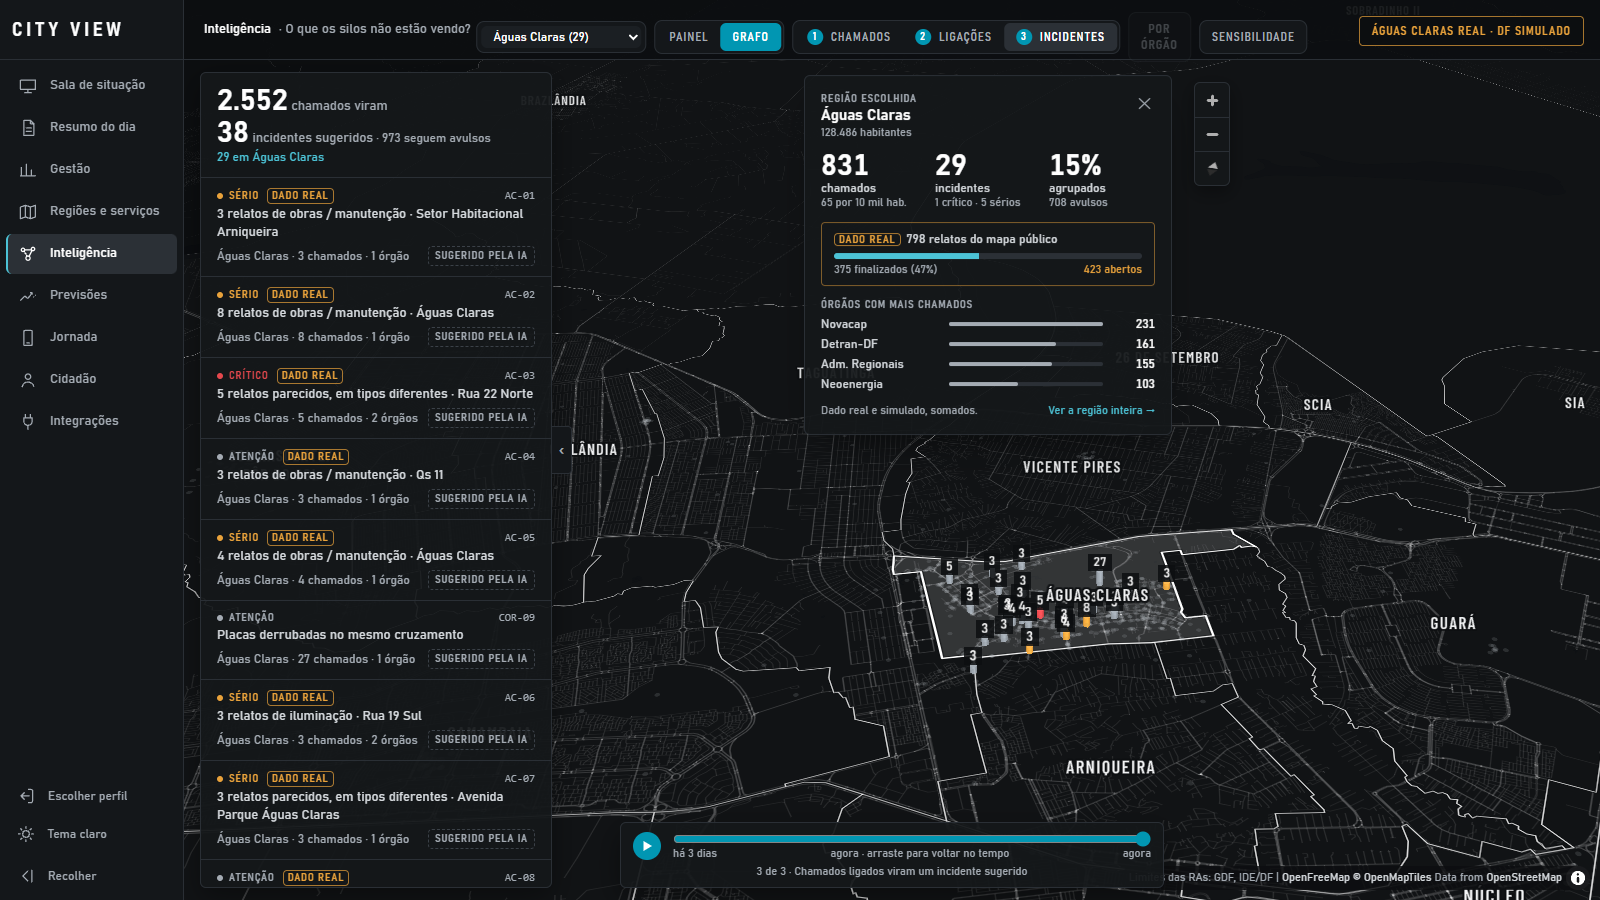
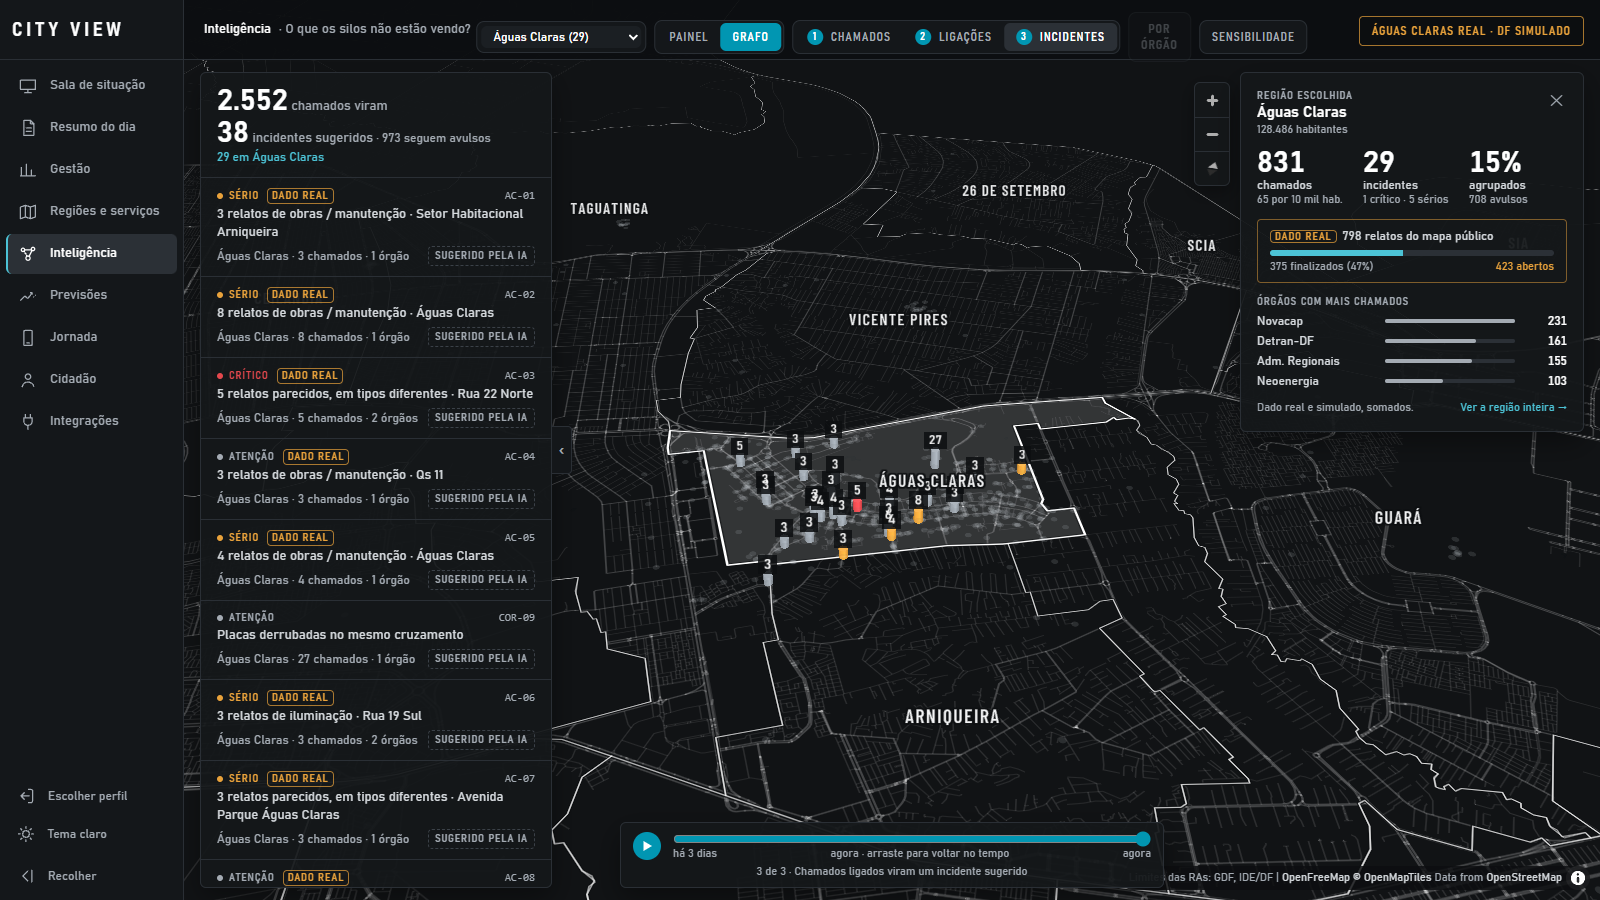
Demo: o cartão da região vai para a lateral
Saiu do meio da tela. Fica à direita, no lugar onde abre o insight (os dois
nunca aparecem juntos), e a região é enquadrada no espaço que sobra, maior.

diff --git a/demo-view/src/telas/inteligencia/TelaInteligencia.tsx b/demo-view/src/telas/inteligencia/TelaInteligencia.tsx
@@ -178,11 +178,11 @@ export function TelaInteligencia() {
   const animadas = useCallback((t: number) => camadasVivas(estado, ondas, t), [estado, ondas]);
 
   const paineis = useRef({ fila: filaAberta, insight: aberto >= 0, cartao: false });
-  // Com a região escolhida e nenhum insight aberto, o cartão dela paira no alto: a região é enquadrada abaixo dele.
+  // Com a região escolhida e nenhum insight aberto, o cartão dela fica na lateral direita: a região é enquadrada no espaço que sobra.
   paineis.current = { fila: filaAberta, insight: aberto >= 0, cartao: Boolean(ra) && aberto < 0 };
   const margens = useCallback((largura: number) => {
     if (largura < 1024) return { top: 120, bottom: 24, left: 16, right: 16 };
-    return { top: paineis.current.cartao ? 370 : 84, bottom: paineis.current.cartao ? 100 : 48, left: paineis.current.fila ? 372 : 32, right: paineis.current.insight ? 452 : 32 };
+    return { top: 84, bottom: 48, left: paineis.current.fila ? 372 : 32, right: paineis.current.insight ? 452 : paineis.current.cartao ? 384 : 32 };
   }, []);
 
   const [alvo, setAlvo] = useState<{ destino: Destino; chave: number; lento?: boolean }>();
@@ -370,15 +370,15 @@ export function TelaInteligencia() {
         )}
       </AnimatePresence>
 
-      {/* A região escolhida: destacada no mapa, com o cartão pairando sobre ela. Sai quando um insight abre. */}
+      {/* A região escolhida: destacada no mapa, com o cartão na lateral direita, no lugar do insight. Sai quando um insight abre. */}
       <AnimatePresence>
         {vista === 'grafo' && daRa && !inc && (
           <motion.div
             key={daRa.ra}
-            className={`pointer-events-none absolute top-[4.75rem] z-10 hidden -translate-x-1/2 lg:block ${filaAberta ? 'left-[calc(50%+6rem)]' : 'left-[calc(50%-4.5rem)]'}`}
-            initial={reduzMovimento() ? false : { opacity: 0, y: -10 }}
-            animate={{ opacity: 1, y: 0 }}
-            exit={reduzMovimento() ? undefined : { opacity: 0, y: -6, transition: { duration: 0.15 } }}
+            className="pointer-events-none absolute top-[4.5rem] right-4 z-10 hidden lg:block"
+            initial={reduzMovimento() ? false : { opacity: 0, x: 32 }}
+            animate={{ opacity: 1, x: 0 }}
+            exit={reduzMovimento() ? undefined : { opacity: 0, x: 32, transition: { duration: 0.15 } }}
             transition={{ duration: 0.3, delay: 0.25 }}
           >
             <CartaoDaRegiao r={daRa} aoFechar={() => mudarRa(null)} />

diff --git a/demo-view/src/telas/inteligencia/partes.tsx b/demo-view/src/telas/inteligencia/partes.tsx
@@ -407,16 +407,15 @@ export function Insight({ inc, decisao, agora, aoConfirmar, aoCancelar, aoDescar
 // ---------------------------------------------------------------- a região escolhida
 
 /**
- * O cartão que paira sobre a região escolhida no seletor: os chamados que caem
- * nela e o que a inteligência fez deles. O flutuar é leve e para com "reduzir
- * movimento".
+ * O cartão da região escolhida no seletor, na lateral direita: os chamados que
+ * caem nela e o que a inteligência fez deles.
  */
 export function CartaoDaRegiao({ r, aoFechar }: { r: ResumoDaRegiao; aoFechar: () => void }) {
   const maior = Math.max(1, ...r.porOrgao.map((o) => o.chamados));
   const parte = (v: number, de: number) => (de > 0 ? `${Math.round((v / de) * 100)}%` : '–');
   return (
-    <motion.div animate={reduzMovimento() ? undefined : { y: [0, -4, 0] }} transition={{ duration: 4.5, repeat: Infinity, ease: 'easeInOut' }}>
-      <Painel className="pointer-events-auto w-[23rem] p-4 shadow-[0_18px_40px_-18px_rgba(0,0,0,0.6)]">
+    <div>
+      <Painel className="pointer-events-auto w-[21.5rem] p-4">
         <div className="flex items-start justify-between gap-3">
           <div className="min-w-0">
             <p className="condensado text-micro text-texto-2">Região escolhida</p>
@@ -495,7 +494,7 @@ export function CartaoDaRegiao({ r, aoFechar }: { r: ResumoDaRegiao; aoFechar: (
           </a>
         </p>
       </Painel>
-    </motion.div>
+    </div>
   );
 }
 

diff --git a/demo-view/README.md b/demo-view/README.md
@@ -419,7 +419,7 @@ de cada uma ("Águas Claras (29)"); `?ra=aguas-claras` abre já escolhida.
 - O selo da Inteligência ficou "Águas Claras real · DF simulado", para caber
   ao lado da barra.
 - **A região escolhida fica destacada no mapa** (contorno e preenchimento) e um
-  **cartão paira sobre ela** com os números: chamados com o ponto dentro do
+  **cartão na lateral direita** (no lugar onde abre o insight) traz os números: chamados com o ponto dentro do
   limite da região, por 10 mil habitantes, incidentes por gravidade, a parte
   agrupada, os órgãos com mais chamados e, onde há dado real, os relatos
   finalizados e abertos (`inteligencia/regiao.ts`). O cartão sai quando um

diff --git a/docs/CV-DEM-001-roadmap-da-demo.md b/docs/CV-DEM-001-roadmap-da-demo.md
@@ -593,3 +593,9 @@ finalizados e abertos só aparecem onde há dado real. O cartão fica num lugar
 fixo da tela, acima da região, e não preso ao ponto do mapa: arrastar o mapa
 não o leva junto.
 
+*Acréscimo de 13/11/2026 · o cartão da região vai para a lateral.* A primeira
+versão punha o cartão no meio da tela, acima da região; o Sammuel pediu na
+lateral. Ficou à direita, no lugar onde abre o insight (os dois nunca aparecem
+juntos), e a região passou a ser enquadrada no espaço que sobra, maior. Onde o
+parágrafo anterior diz "pairando sobre ela" e "no alto do mapa", vale este.
+
